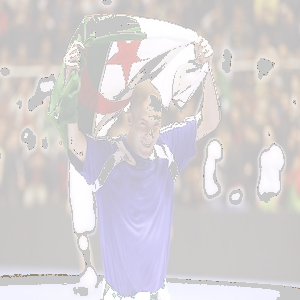
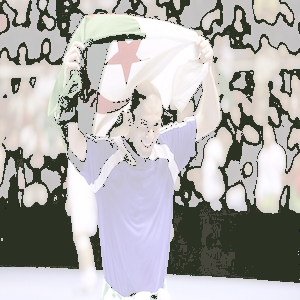
BRUUUUUUUMA

diff --git a/src/MainKerrian.java b/src/MainKerrian.java
@@ -6,18 +6,19 @@ public class MainKerrian {
         FlouMoyenne flouMoyenne = new FlouMoyenne();
 
         try {
-            flouMoyenne.appliquerFiltreConvolution("images/Planete 1.jpg");
+            /*flouMoyenne.appliquerFiltreConvolution("images/Planete 1.jpg");
             flouMoyenne.appliquerFiltreConvolution("images/Planete 2.jpg");
             flouMoyenne.appliquerFiltreConvolution("images/Planete 3.jpg");
             flouMoyenne.appliquerFiltreConvolution("images/Planete 4.jpg");
-            flouMoyenne.appliquerFiltreConvolution("images/Planete 5.jpeg");
-            /**
+            flouMoyenne.appliquerFiltreConvolution("images/Planete 5.jpeg");*/
+
             FlouGaussien flouGaussien = new FlouGaussien(7);
             flouGaussien.appliquerFiltreConvolution("./images/Planete 1.jpg");
             KMeans kMeans = new KMeans(10, 10);
             ImageBiomes imageBiomes = new ImageBiomes(kMeans, Palette.DEFAULT);
             imageBiomes.afficherBiomes("images/Gaussien-new-Planete 1.jpg");
-            **/
+
+
             DBSCAN dbscan = new DBSCAN(0.01, 1);
             ImageEcosystemes imageEcosystemes = new ImageEcosystemes(dbscan, Palette.DEFAULT);
             imageEcosystemes.afficherEcosystemes("images/img_1.png");
